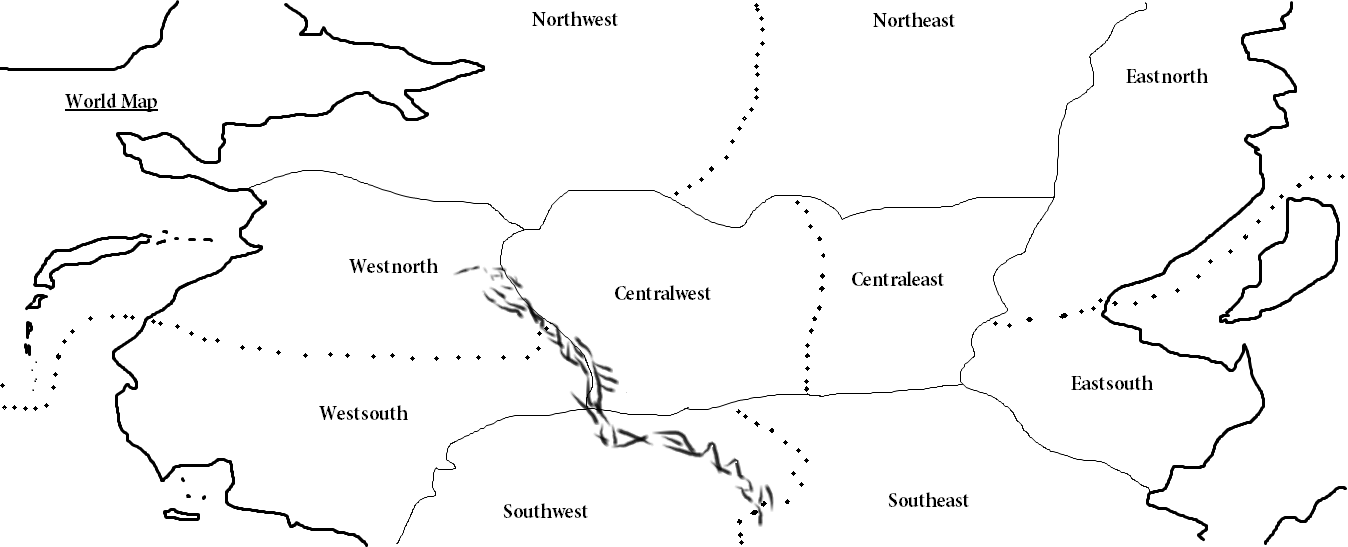
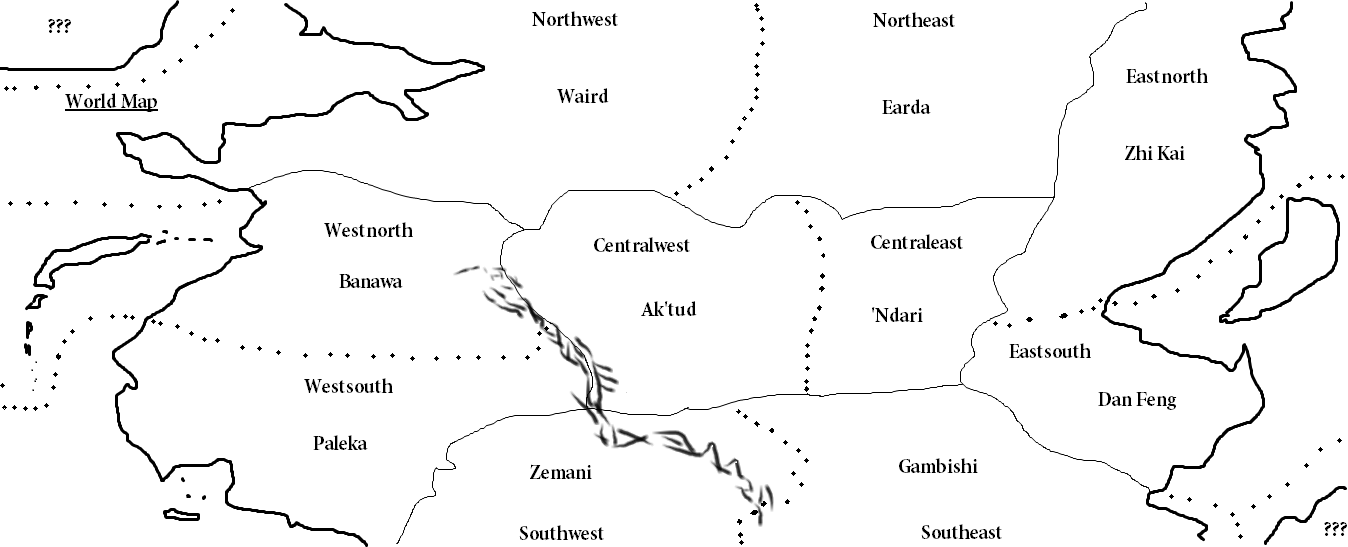
.

diff --git a/brainStorm/cardGame.mm b/brainStorm/cardGame.mm
@@ -2,7 +2,7 @@
 <!-- To view this file, download free mind mapping software FreeMind from http://freemind.sourceforge.net -->
 <node CREATED="1438373898661" ID="ID_786192036" MODIFIED="1438380598382" TEXT="Card Game">
 <font NAME="SansSerif" SIZE="16"/>
-<node CREATED="1438374092111" HGAP="14" ID="ID_385514608" MODIFIED="1438391502822" POSITION="right" TEXT="Theme" VSHIFT="-25">
+<node CREATED="1438374092111" HGAP="16" ID="ID_385514608" MODIFIED="1438484629185" POSITION="right" TEXT="Theme" VSHIFT="55">
 <font NAME="SansSerif" SIZE="16"/>
 <icon BUILTIN="full-3"/>
 <node CREATED="1438374259339" ID="ID_1990198175" MODIFIED="1438377869509" TEXT="NO magic of any kind">
@@ -26,7 +26,7 @@
 <node CREATED="1438374845487" ID="ID_1725724253" MODIFIED="1438377869506" TEXT="all about skill">
 <font NAME="SansSerif" SIZE="16"/>
 </node>
-<node CREATED="1438374849394" ID="ID_1932262282" MODIFIED="1438377869506" TEXT="needs an elegant solution to the gear problem in WoW">
+<node CREATED="1438374849394" ID="ID_1932262282" MODIFIED="1438483963671" TEXT="needs an elegant solution to the gear problem in WoW  ">
 <font NAME="SansSerif" SIZE="16"/>
 <node CREATED="1438376526754" ID="ID_1401109213" MODIFIED="1438377869505" TEXT="Does the game have to be complex?">
 <font NAME="SansSerif" SIZE="16"/>
@@ -37,24 +37,54 @@
 </node>
 <node CREATED="1438375198574" ID="ID_1718346426" MODIFIED="1438377869505" TEXT="10 factions">
 <font NAME="SansSerif" SIZE="16"/>
-<node CREATED="1438375766651" ID="ID_28782210" MODIFIED="1438377869504" TEXT="Every faction has unique fighting styles and capabilities">
+<node CREATED="1438375766651" ID="ID_28782210" MODIFIED="1438483959263" TEXT="Every faction has unique fighting styles and capabilities   ">
 <font NAME="SansSerif" SIZE="16"/>
 <node CREATED="1438375793085" ID="ID_79151343" MODIFIED="1438377869504" TEXT="">
 <font NAME="SansSerif" SIZE="16"/>
 <node CREATED="1438375299804" ID="ID_1252258605" MODIFIED="1438377869503" TEXT="2 White People">
 <font NAME="SansSerif" SIZE="16"/>
+<node CREATED="1438467555822" ID="ID_175815003" MODIFIED="1438467653502" TEXT="Earda">
+<font NAME="SansSerif" SIZE="16"/>
+</node>
+<node CREATED="1438467655286" ID="ID_1064840437" MODIFIED="1438467659943" TEXT="Waird">
+<font NAME="SansSerif" SIZE="16"/>
+</node>
 </node>
 <node CREATED="1438375313431" ID="ID_1393424380" MODIFIED="1438377869503" TEXT="2 Yellow People">
 <font NAME="SansSerif" SIZE="16"/>
+<node CREATED="1438467668148" ID="ID_1635761397" MODIFIED="1438483711636" TEXT="Zhi Kai">
+<font NAME="SansSerif" SIZE="16"/>
+</node>
+<node CREATED="1438467682849" ID="ID_1514045953" MODIFIED="1438484293209" TEXT="Dan Feng">
+<font NAME="SansSerif" SIZE="16"/>
+</node>
 </node>
 <node CREATED="1438375322690" ID="ID_642735589" MODIFIED="1438377869503" TEXT="2 Red People">
 <font NAME="SansSerif" SIZE="16"/>
+<node CREATED="1438467732826" ID="ID_1217029737" MODIFIED="1438474502923" TEXT="Banawa">
+<font NAME="SansSerif" SIZE="16"/>
+</node>
+<node CREATED="1438467859176" ID="ID_984375887" MODIFIED="1438474879909" TEXT="Paleka">
+<font NAME="SansSerif" SIZE="16"/>
+</node>
 </node>
 <node CREATED="1438375341856" ID="ID_1686962025" MODIFIED="1438377869502" TEXT="2 Brown People">
 <font NAME="SansSerif" SIZE="16"/>
+<node CREATED="1438467893561" ID="ID_1872094965" MODIFIED="1438468016356" TEXT="Ak&apos;tud">
+<font NAME="SansSerif" SIZE="16"/>
+</node>
+<node CREATED="1438467899271" ID="ID_210324377" MODIFIED="1438468014216" TEXT="&apos;Ndari">
+<font NAME="SansSerif" SIZE="16"/>
+</node>
 </node>
 <node CREATED="1438375349025" ID="ID_1624921934" MODIFIED="1438377869502" TEXT="2 Black People">
 <font NAME="SansSerif" SIZE="16"/>
+<node CREATED="1438467921791" ID="ID_662541983" MODIFIED="1438467972550" TEXT="Zemani">
+<font NAME="SansSerif" SIZE="16"/>
+</node>
+<node CREATED="1438467973549" ID="ID_730492254" MODIFIED="1438468143111" TEXT="Gambishi">
+<font NAME="SansSerif" SIZE="16"/>
+</node>
 </node>
 </node>
 </node>
@@ -83,9 +113,9 @@
 <font NAME="SansSerif" SIZE="16"/>
 </node>
 </node>
-<node CREATED="1438382712904" ID="ID_1172298028" MODIFIED="1438382759792" TEXT="maybe a feeling of chess regality in terms of both strategy, units and game play">
+<node CREATED="1438382712904" ID="ID_1172298028" MODIFIED="1438483945706" TEXT="maybe a feeling of chess regality in terms of both strategy, units and game play     ">
 <font NAME="SansSerif" SIZE="16"/>
-<node CREATED="1438382779506" ID="ID_1541264068" MODIFIED="1438382815401" TEXT="I believe it&apos;s called a smacking of chess as the Brits say">
+<node CREATED="1438382779506" ID="ID_1541264068" MODIFIED="1438483953489" TEXT="I believe it&apos;s called a smacking of chess as the Brits say   ">
 <font NAME="SansSerif" SIZE="16"/>
 </node>
 </node>
@@ -131,24 +161,24 @@
 <font NAME="SansSerif" SIZE="16"/>
 </node>
 </node>
-<node CREATED="1438374675275" HGAP="-11" ID="ID_791768982" MODIFIED="1438391495804" POSITION="left" TEXT="Name" VSHIFT="-18">
+<node CREATED="1438374675275" HGAP="4" ID="ID_791768982" MODIFIED="1438484611491" POSITION="left" TEXT="Name" VSHIFT="-19">
 <font NAME="SansSerif" SIZE="16"/>
 <icon BUILTIN="full-1"/>
 <node CREATED="1438375161717" ID="ID_1544914877" MODIFIED="1438377869497" TEXT="???">
 <font NAME="SansSerif" SIZE="16"/>
 </node>
 </node>
-<node CREATED="1438374777339" HGAP="26" ID="ID_1313363426" MODIFIED="1438391498418" POSITION="left" TEXT="Slogan" VSHIFT="5">
+<node CREATED="1438374777339" HGAP="24" ID="ID_1313363426" MODIFIED="1438484635161" POSITION="left" TEXT="Slogan" VSHIFT="-97">
 <font NAME="SansSerif" SIZE="16"/>
 <icon BUILTIN="full-2"/>
 <node CREATED="1438374808861" ID="ID_1909109988" MODIFIED="1438377869496" TEXT="Where Strategy Rules">
 <font NAME="SansSerif" SIZE="16"/>
 </node>
 </node>
-<node CREATED="1438374802785" HGAP="28" ID="ID_451117220" MODIFIED="1438391521064" POSITION="left" TEXT="Rules" VSHIFT="-26">
+<node CREATED="1438374802785" HGAP="27" ID="ID_451117220" MODIFIED="1438484641541" POSITION="left" TEXT="Rules" VSHIFT="-31">
 <font NAME="SansSerif" SIZE="16"/>
 <icon BUILTIN="full-6"/>
-<node CREATED="1438374797161" ID="ID_1140213706" MODIFIED="1438377869495" TEXT="Object of the Game/How to Win">
+<node CREATED="1438374797161" ID="ID_1140213706" MODIFIED="1438483979720" TEXT="Object of the Game/How to Win  ">
 <font NAME="SansSerif" SIZE="16"/>
 <node CREATED="1438375267379" ID="ID_469122682" MODIFIED="1438377869494" TEXT="Structure Question">
 <font NAME="SansSerif" SIZE="16"/>
@@ -177,7 +207,7 @@
 </node>
 <node CREATED="1438378918674" ID="ID_373798538" MODIFIED="1438378942128" TEXT="Second Player chooses Terrain">
 <font NAME="SansSerif" SIZE="16"/>
-<node CREATED="1438379845331" ID="ID_1900300996" MODIFIED="1438379902288" TEXT="Should both players get to choose?">
+<node CREATED="1438379845331" ID="ID_1900300996" MODIFIED="1438483973936" TEXT="Should both players get to choose?  ">
 <font NAME="SansSerif" SIZE="16"/>
 </node>
 <node CREATED="1438379875656" ID="ID_250821463" MODIFIED="1438379899636" TEXT="Should the terrains always be the same? Or always different?">
@@ -236,12 +266,12 @@
 </html></richcontent>
 <font NAME="SansSerif" SIZE="16"/>
 </node>
-<node CREATED="1438380338874" ID="ID_1851349555" MODIFIED="1438380359047" TEXT="Resources that you build are always added at the beginning of your next turn">
+<node CREATED="1438380338874" ID="ID_1851349555" MODIFIED="1438483995327" TEXT="Resources that you build are always added at the beginning of your next turn   ">
 <font NAME="SansSerif" SIZE="16"/>
 </node>
 <node CREATED="1438380626148" ID="ID_1575885394" MODIFIED="1438380666113" TEXT="Should there be just food based resource or weapon/defense based resource?">
 <font NAME="SansSerif" SIZE="16"/>
-<node CREATED="1438380674801" ID="ID_1286120601" MODIFIED="1438380721210" TEXT="for now just one blanket resource called...Resource">
+<node CREATED="1438380674801" ID="ID_1286120601" MODIFIED="1438484002598" TEXT="for now just one blanket resource called...Resource   ">
 <font NAME="SansSerif" SIZE="16"/>
 </node>
 </node>
@@ -257,7 +287,7 @@
 <node CREATED="1438399685892" ID="ID_65441327" MODIFIED="1438399710138" POSITION="right" TEXT="Card Rarities">
 <font NAME="SansSerif" SIZE="16"/>
 <icon BUILTIN="full-7"/>
-<node CREATED="1438399808715" ID="ID_432901842" MODIFIED="1438399834843" TEXT="I believe that we shouldn&apos;t have them at all.">
+<node CREATED="1438399808715" ID="ID_432901842" MODIFIED="1438483933690" TEXT="we won&apos;t need to use them all but are there more?   ">
 <font NAME="SansSerif" SIZE="16"/>
 <node CREATED="1438399715778" ID="ID_946383248" MODIFIED="1438399723175" TEXT="Common">
 <font NAME="SansSerif" SIZE="16"/>
@@ -275,13 +305,6 @@
 <font NAME="SansSerif" SIZE="16"/>
 </node>
 </node>
-<node CREATED="1438399836265" ID="ID_1090728449" MODIFIED="1438399860674" TEXT="Cards should just be rare without a designation">
-<font NAME="SansSerif" SIZE="16"/>
-</node>
-<node CREATED="1438399877625" ID="ID_1337680888" MODIFIED="1438399888655" TEXT="that would be absolutely awesome">
-<font NAME="SansSerif" SIZE="15"/>
-</node>
-<node CREATED="1438399889597" ID="ID_219138950" MODIFIED="1438399889597" TEXT=""/>
 </node>
 </node>
 </map>
